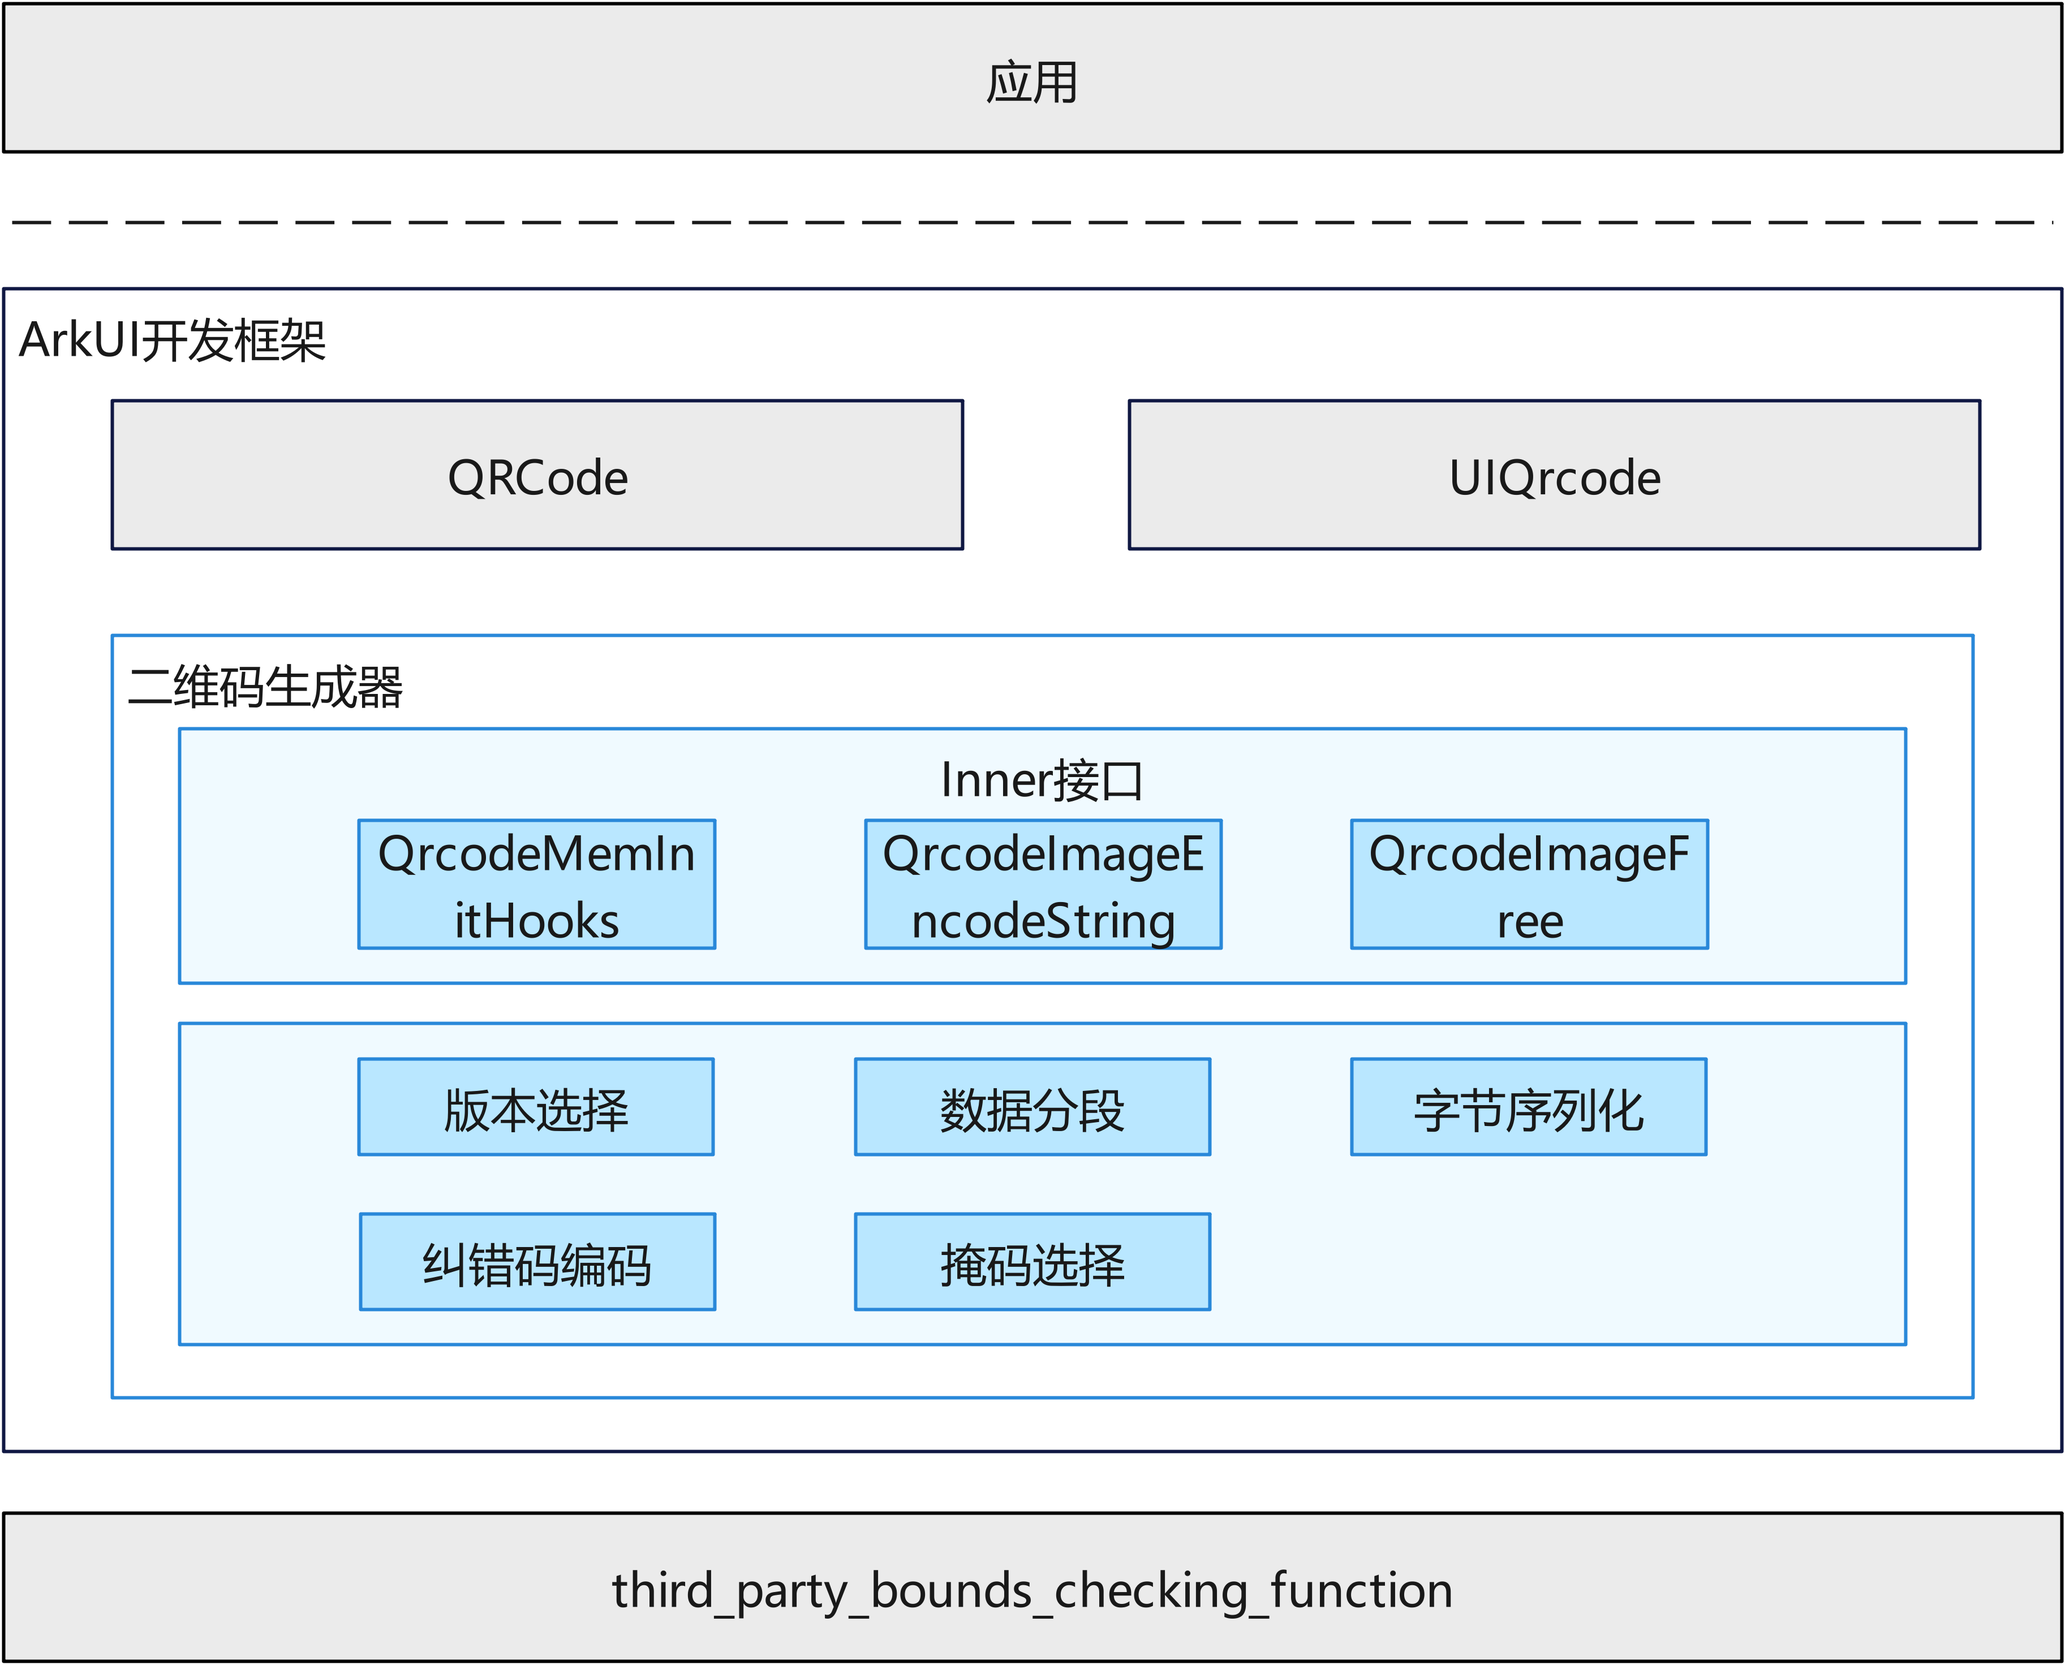
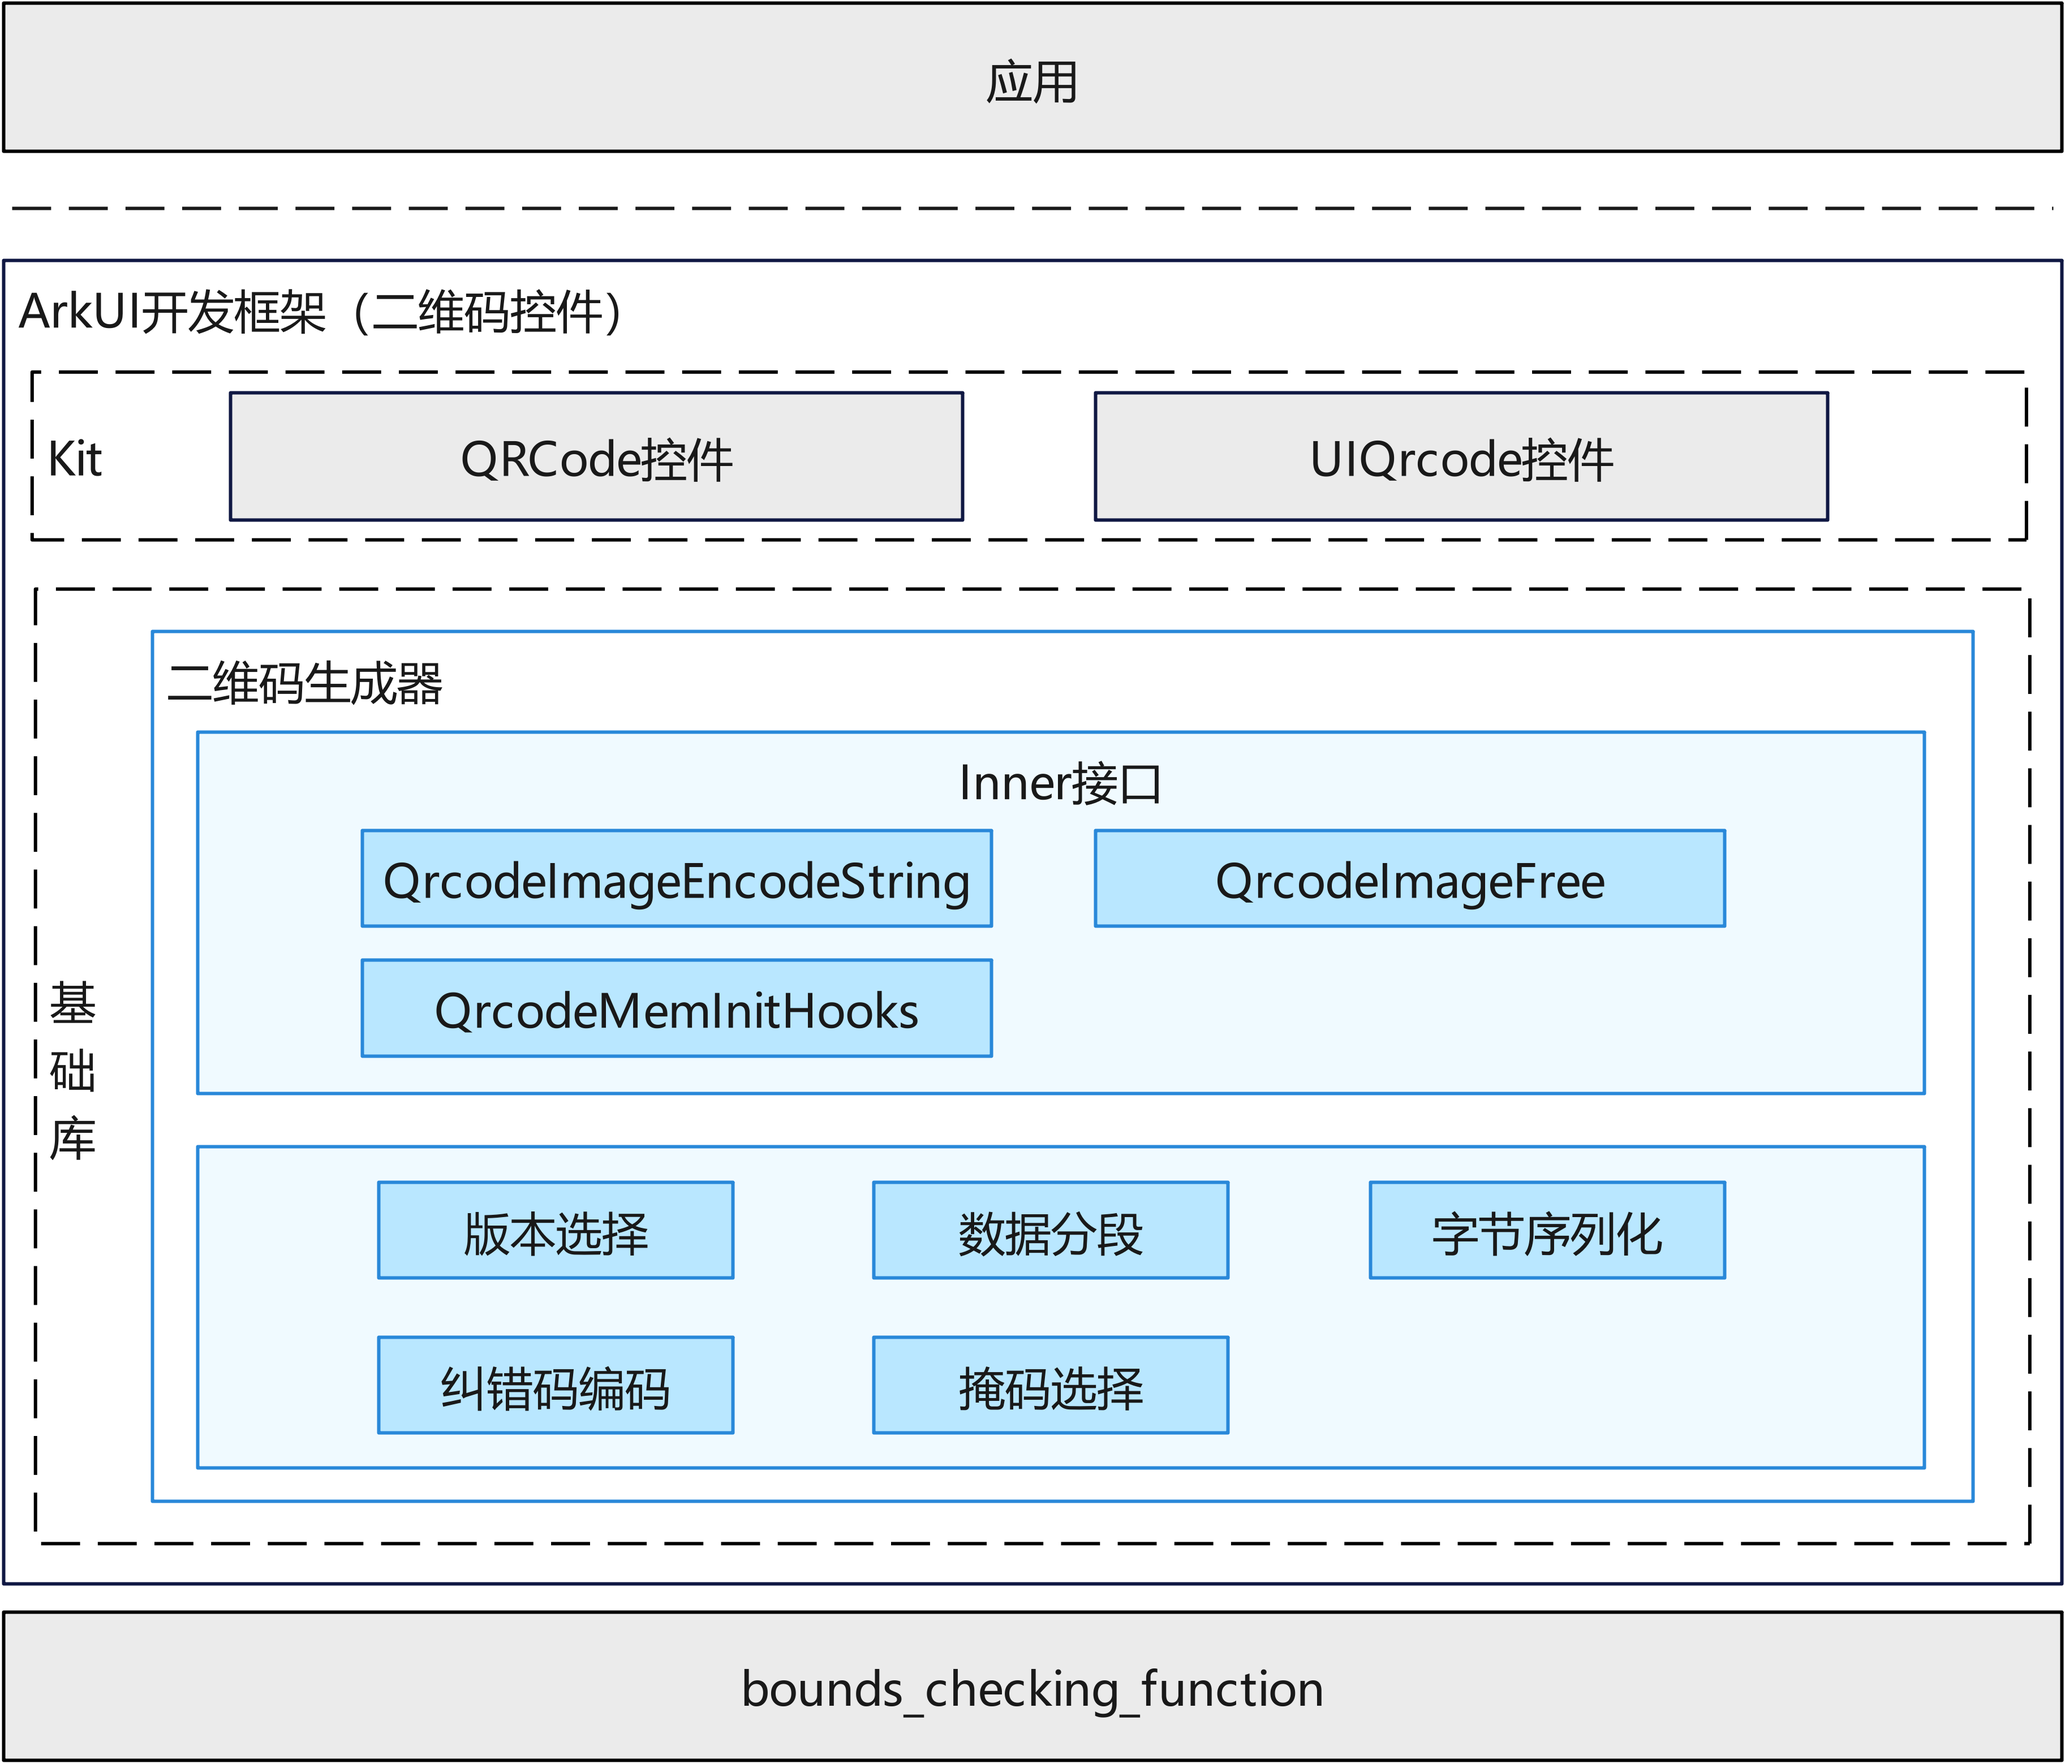
修改架构图和readme

diff --git a/README.md b/README.md
@@ -1,6 +1,6 @@
-# QR Code Generator<a name="ZH-CN_TOPIC_0000000000000001">
+# QR Code Generator
 
-## Introduction<a name="section1111111111111"></a>
+## Introduction
 
 The QR Code Generator provides QR code generation capability for the OpenHarmony system. QR code is a widely-used encoding technology that has stood the test of market verification. It offers high information capacity, reliability, and strong confidentiality and anti-counterfeiting features. The QR Code Generator follows the [**ISO/IEC 18004:2015 standard**](https://www.iso.org/obp/ui/es/#iso:std:iso-iec:18004:ed-3:v1:en), supporting QR Code generation from Version 1 to Version 40, with flexible error correction level options.
 
@@ -9,9 +9,9 @@ The QR Code Generator provides QR code generation capability for the OpenHarmony
 -   **Memory Management:** Provides custom memory allocation hooks, allowing developers to inject their own memory management functions for memory optimization on embedded devices.
 -   **Form Support:** Supports three forms: standard, mini, and small. The standard form is used for the QRCode control, the mini form is used for the UIQrcode control, and the small form is not currently used by any control.
 
-## System Architecture<a name="section2222222222222"></a>
+## System Architecture
 
-**Figure 1**  QR Code Generator Architecture<a name="fig1111111111111"></a>
+**Figure 1**  QR Code Generator Architecture
 
 ![](figures/qrcode_generator.png "QR Code Generator Architecture")
 
@@ -20,7 +20,7 @@ The QR Code Generator provides QR code generation capability for the OpenHarmony
 -   **Data Encoding:** Encodes input character stream information, including version selection, data segmentation, byte serialization, error correction code encoding, and mask selection modules.
 
 
-## Directory Structure<a name="section3333333333333"></a>
+## Directory Structure
 
 ```
 /foundation/arkui/qrcode
@@ -52,14 +52,14 @@ The QR Code Generator provides QR code generation capability for the OpenHarmony
     └── patches.json                      # Patch configuration
 ```
 
-## Constraints<a name="section4444444444444"></a>
+## Constraints
 
 - The input text length is limited by version and error correction level. The actual usable length is calculated at runtime. For example: With H-level error correction, the input character code must not exceed the maximum data capacity of Version 40 (approximately 1852 bytes). QR codes cannot be generated if this length is exceeded.
 - After inputting character code stream, the QR Code Generator automatically selects the minimum Version that can contain the data. When Version is 40, the maximum size is 177×177 pixels (px).
 - Only square QR code output is supported. Other shapes (such as rectangles, circles, etc.) are not supported.
 - When using Byte mode, UTF-8 encoding is used by default.
 
-## Building<a name="section5555555555555_b"></a>
+## Building
 
 Use the following command to build for different target platforms:
 
@@ -72,13 +72,12 @@ Use the following command to build for different target platforms:
 > **Note:**
 > `{product_name}` is the currently supported platform name, for example `rk3568`.
 
-## Description<a name="section5555555555555"></a>
+## Description
 
 The QR Code Generator provides public interfaces for system components or applications to generate QR codes.
 
-### Interface Description<a name="section6666666666666"></a>
+### Interface Description
 
-<a name="table1111111111111"></a>
 <table><thead align="left"><tr id="row1111111111111"><th class="cellrowborder" valign="top" width="50.22%" id="mcps1.1.3.1.1"><p id="p1111111111111"><a name="p1111111111111"></a><a name="p1111111111111"></a>Interface Name</p>
 </th>
 <th class="cellrowborder" valign="top" width="49.78%" id="mcps1.1.3.1.2"><p id="p2222222222222"><a name="p2222222222222"></a><a name="p2222222222222"></a>Description</p>
@@ -103,9 +102,7 @@ The QR Code Generator provides public interfaces for system components or applic
 </tbody>
 </table>
 
-#### Error Correction Level Description<a name="section6666666666666_ecc"></a>
-
-<a name="table2222222222222"></a>
+#### Error Correction Level Description
 
 <table><thead align="left"><tr id="row5555555555555"><th class="cellrowborder" valign="top" width="20%" id="mcps1.1.3.2.1"><p id="p1111111111112"><a name="p1111111111112"></a><a name="p1111111111112"></a>Level</p>
 </th>
@@ -143,7 +140,7 @@ The QR Code Generator provides public interfaces for system components or applic
 - The error correction algorithm is implemented using Reed-Solomon (RS) codes.
 
 
-### Usage<a name="section7777777777777"></a>
+### Usage
 
 Call the QR Code Generator interface to encode text into a QR code image:
 
@@ -167,6 +164,9 @@ QrcodeMemHooks hooks = {
 QrcodeMemInitHooks(&hooks);
 ```
 
-## Third-Party Dependencies<a name="section9999999999999"></a>
+## Repositories Involved
 
-This module depends on the platform foundation security function library ([**bounds_checking_function**](https://gitcode.com/openharmony/third_party_bounds_checking_function)), which provides secure string processing and memory operation functions. For specific dependency details, refer to the external_deps configuration in the BUILD.gn file.
+- [third_party_bounds_checking_function](https://gitcode.com/openharmony/third_party_bounds_checking_function)
+- [arkui_ui_lite](https://gitcode.com/openharmony/arkui_ui_lite)
+- [arkui_ace_engine](https://gitcode.com/openharmony/arkui_ace_engine)
+- **arkui_qrcodegen**

diff --git a/README_zh.md b/README_zh.md
@@ -1,6 +1,6 @@
-# 二维码生成器<a name="ZH-CN_TOPIC_0000000000000001">
+# 二维码生成器
 
-## 简介<a name="section1111111111111"></a>
+## 简介
 
 二维码生成器为OpenHarmony系统提供二维码生成能力。二维码是一种经得起市场考验的被广泛使用的编码技术，它具有信息容量大、可靠性高、保密防伪性强的优点。二维码生成器遵循[**ISO/IEC 18004:2015标准**](https://www.iso.org/obp/ui/es/#iso:std:iso-iec:18004:ed-3:v1:en)实现，支持Version 1到Version 40的二维码生成，并提供了灵活的错误纠正等级选择。
 
@@ -9,9 +9,9 @@
 -   **内存管理：** 提供自定义内存分配钩子，允许开发者注入自己的内存管理函数，便于在嵌入式设备中进行内存优化。
 -   **形态支持：** 支持standard、mini、small三种形态。其中standard形态使用场景为QRCode控件，mini形态使用场景为UIQrcode控件，small形态暂无控件使用。
 
-## 系统架构图<a name="section2222222222222"></a>
+## 系统架构图
 
-**图 1**  二维码生成器架构图<a name="fig1111111111111"></a>
+**图 1**  二维码生成器架构图
 
 ![](figures/zh-cn_qrcode_generator.png "二维码生成器架构图")
 
@@ -20,7 +20,7 @@
 -   **数据编码：** 对输入字符码流信息进行编码，包括版本选择、数据分段、字节序列化、纠错码编码、掩码选择模块。
 
 
-## 目录<a name="section3333333333333"></a>
+## 目录
 
 ```
 /foundation/arkui/qrcode
@@ -52,14 +52,14 @@
     └── patches.json                      # 补丁配置
 ```
 
-## 约束<a name="section4444444444444"></a>
+## 约束
 
 - 输入文本长度受版本和纠错等级限制，实际可用长度由运行时计算得出。例如：在H级别纠错下，输入字符码不得超过Version 40的最大数据容量（约1852字节），超出此长度将无法生成二维码。
 - 输入字符码流后，二维码生成器会自动选择最小能包含数据的Version进行编码，Version为40时最大尺寸为177×177像素（px）。
 - 仅支持正方形二维码输出，不支持其他形状（如矩形、圆形等）。
 - 使用字节模式时，默认使用UTF-8编码。
 
-## 编译构建<a name="section5555555555555_b"></a>
+## 编译构建
 
 根据不同的目标平台，使用以下命令进行编译：
 
@@ -72,13 +72,12 @@
 > **说明：**
 > `{product_name}` 为当前支持的平台名称，例如 `rk3568`。
 
-## 说明<a name="section5555555555555"></a>
+## 说明
 
 二维码生成器提供公共接口，供系统组件或应用调用以生成二维码。
 
-### 接口说明<a name="section6666666666666"></a>
+### 接口说明
 
-<a name="table1111111111111"></a>
 <table><thead align="left"><tr id="row1111111111111"><th class="cellrowborder" valign="top" width="50.22%" id="mcps1.1.3.1.1"><p id="p1111111111111"><a name="p1111111111111"></a><a name="p1111111111111"></a>接口名</p>
 </th>
 <th class="cellrowborder" valign="top" width="49.78%" id="mcps1.1.3.1.2"><p id="p2222222222222"><a name="p2222222222222"></a><a name="p2222222222222"></a>说明</p>
@@ -103,9 +102,8 @@
 </tbody>
 </table>
 
-#### 纠错等级说明<a name="section6666666666666_ecc"></a>
+#### 纠错等级说明
 
-<a name="table2222222222222"></a>
 <table><thead align="left"><tr id="row5555555555555"><th class="cellrowborder" valign="top" width="20%" id="mcps1.1.3.2.1"><p id="p1111111111112"><a name="p1111111111112"></a><a name="p1111111111112"></a>等级</p>
 </th>
 <th class="cellrowborder" valign="top" width="20%" id="mcps1.1.3.2.2"><p id="p2222222222223"><a name="p2222222222223"></a><a name="p2222222222223"></a>枚举值</p>
@@ -142,7 +140,7 @@
 - 纠错算法采用 Reed-Solomon（RS）码实现。
 
 
-### 使用说明<a name="section7777777777777"></a>
+### 使用说明
 
 调用二维码生成器接口，将文本编码为二维码图像：
 
@@ -166,7 +164,9 @@ QrcodeMemHooks hooks = {
 QrcodeMemInitHooks(&hooks);
 ```
 
-## 第三方依赖<a name="section9999999999999"></a>
+## 相关仓
 
-本模块依赖于平台基础安全函数库（[**bounds_checking_function**](https://gitcode.com/openharmony/third_party_bounds_checking_function)），该模块提供安全字符串处理和内存操作函数。具体依赖关系请参见 BUILD.gn 文件中的 external_deps 配置。
-
+- [third_party_bounds_checking_function](https://gitcode.com/openharmony/third_party_bounds_checking_function)
+- [arkui_ui_lite](https://gitcode.com/openharmony/arkui_ui_lite)
+- [arkui_ace_engine](https://gitcode.com/openharmony/arkui_ace_engine)
+- **arkui_qrcodegen**
